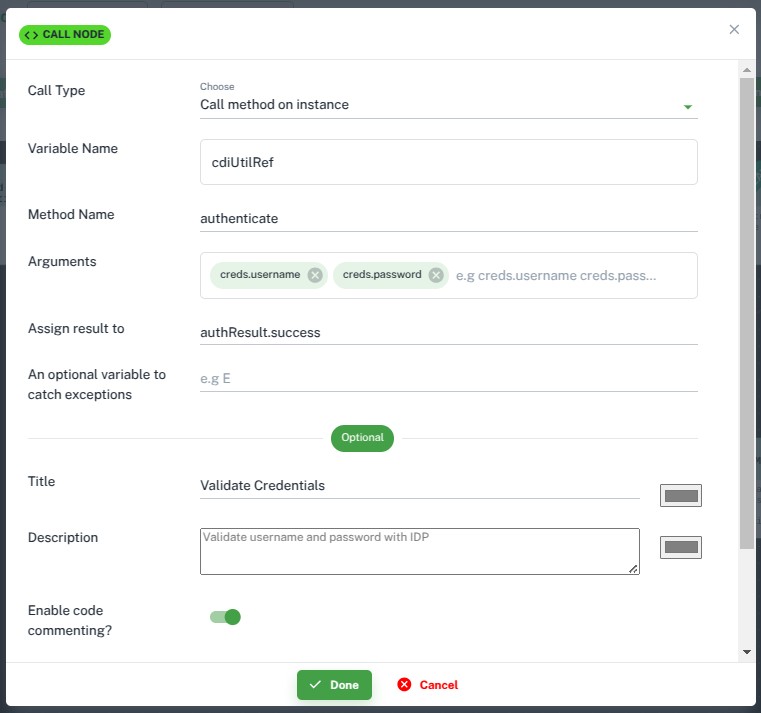
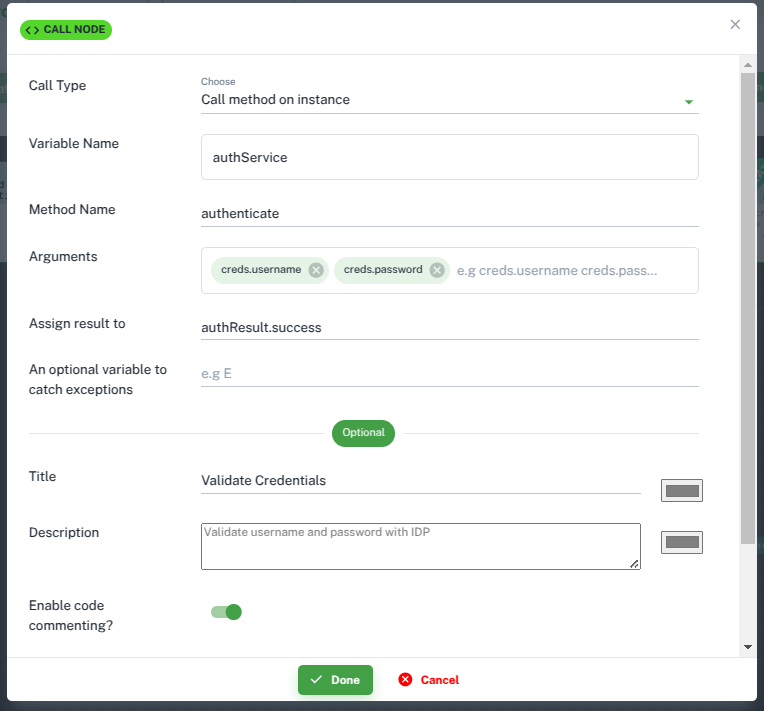
fix(docs): update input values

diff --git a/docs/janssen-server/developer/agama/quick-start-using-agama-lab.md b/docs/janssen-server/developer/agama/quick-start-using-agama-lab.md
@@ -141,11 +141,6 @@ from this project listing page.
 
     `assign result to`: `authServiceClass`
 
-    `title`: `Get class reference`
-
-    `description`: `Get authentication service class reference from the IDP`
-
-   
     ![](../../../assets/image-agama-lab-edit-authn-instance.png)
 
 3.  Create `Get instance reference` Call block
@@ -167,10 +162,6 @@ from this project listing page.
     `arguments`: `authServiceClass`
 
     `assign result to`: `authService`
-
-    `title`: `Get instance reference`
-    
-    `description`: `Get authentication service instance reference from the IDP`
 
     ![](../../../assets/agamalab-flow-passwd-editcdiutil.png)
 
@@ -226,6 +217,12 @@ from this project listing page.
     Click on the newly created `RRF` block. Click :material-pencil:. Input values as shown below in the configuration
     screen. 
 
+    `Template path`: `login.ftlh`
+
+    `Data variable to inject`: `authResult`
+
+    `Assign resutl to`: `creds`
+
     ![](../../../assets/agamalab-flow-passwd-edit-rrf.png)
     
     
@@ -250,6 +247,14 @@ from this project listing page.
 
     Click on the newly created `Call` block. Click :material-pencil:. 
     Configure it as shown below.
+
+    `Variable name`: `authService`
+
+    `Method name`: `authenticate`
+
+    `Arguments`: `creds.username` and `creds.password`
+
+    `Assign result to`: `authResult.success`
 
     ![](../../../assets/agamalab-flow-passwd-edit-cdiUtil-instance.png)
 
